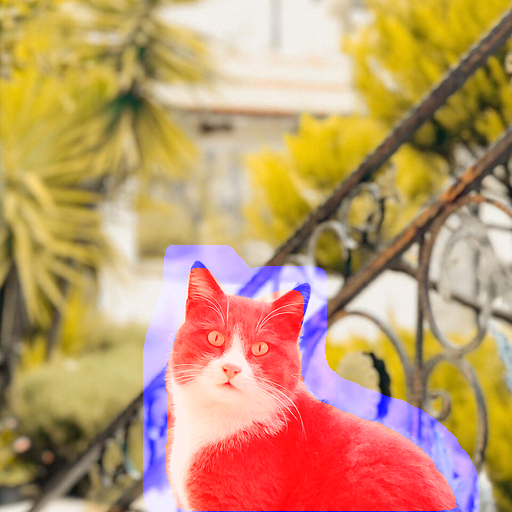
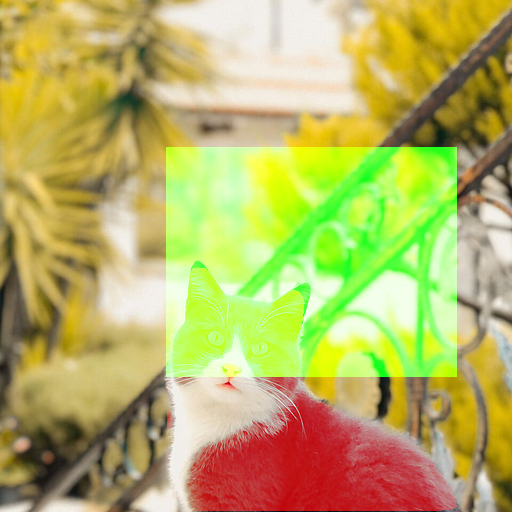
Switch the inpainting scenario to adding things to the subject
The subject-replacement group is gone: it forced the model to paint an
object from scratch, which is both hard and unlike the malicious edits this
defends against. What remains is one scenario -- a local box on the subject,
head or torso, and a prompt describing the subject with an accessory added.

People get torso rather than head. They fill much of these frames, so a face
box spans half the image, and a repaint region that large stops attributing
success to the defense.

auto_masks.py now derives head and torso boxes: COCO keypoints for people
(eyes/ears/nose for the head, shoulders to hips for the torso) and the upper
band of the instance box for animals. These are boxes, not silhouettes -- a
hat needs room above the head, so a mask hugging the outline leaves nowhere
for it to appear.

Region and prompt now live together in data/lo_inpaint_edits.yaml and are
read from that one place. Taking them from separate sources is exactly what
produced FND-038.

Claude-Session: https://claude.ai/code/session_01SwmAJq6ZFbhdYrZS3oU6RG

diff --git a/scripts/inpaint_edit.py b/scripts/inpaint_edit.py
@@ -1,16 +1,16 @@
-"""用既有的全圖防禦圖跑 inpainting 編輯。兩種場景，遮罩自動產生。
+"""用既有的全圖防禦圖跑 inpainting 編輯。遮罩自動產生，場景只有一種。
 
-修正 2026-08-14 第一版 inpainting 批次的協定錯誤（見 FND-038 的更正）：
-那一版把遮罩畫在**背景**、prompt 卻用**描述主體**的 `prompts[0]`，等於叫模型
-在背景畫一隻狗、而狗本人在遮罩外原封不動——攻擊本來就不可能成立。
+**在主體上加東西**：遮罩是主體的一個局部方框（頭部或軀幹），prompt 描述
+加上配件之後的整體（`a cat wearing a red party hat`）。使用者 2026-08-15
+裁定移除「換掉整個主體」那一組——它逼模型從零重畫一個物件，難度高且與實際
+的惡意編輯情境不符。
 
-文獻的兩種場景（AdvPaint ICLR 2025 同時測兩者）：
+人物用 `torso` 而非 `head`：這批的人物在畫面中佔比大，臉部方框會涵蓋畫面
+一半，重畫區太大則「攻擊有沒有成功」不再能歸因到防禦。
 
-    subject      遮罩＝主體，prompt＝`prompts[0]`（換掉主體：a dog → a cat）
-    background   遮罩＝主體以外，prompt＝`prompts[1]`（保住主體、重畫其餘：
-                 a dog in the park）
-
-`prompts.yaml` 的檔頭本來就是這樣分工的，第一版用錯了那一欄。
+逐影像的 region 與 prompt 由 `data/lo_inpaint_edits.yaml` 給定，**只有這一
+個地方決定它們**——2026-08-14 的協定錯誤（FND-038）正是遮罩與 prompt 各自
+從不同來源取值造成的。
 
 **防禦加在整張圖上，遮罩在編輯時才套用。** 故不需要為 inpainting 重跑攻擊，
 直接讀 img2img 批次（`runs/hb5`）存下的 `*__def.png`。
@@ -19,8 +19,7 @@
 差一個防禦擾動，整張圖算 LPIPS 會把失真算成效果。
 
 用法：
-    python scripts/inpaint_edit.py --out runs/ip2/background --scenario background \
-        --defended runs/hb5 runs/hb5_pgc --masks data/lo_masks_auto
+    python scripts/inpaint_edit.py --out runs/ip3 --defended runs/hb5 runs/hb5_pgc         --masks data/lo_masks_auto --seeds 3
 """
 
 from __future__ import annotations
@@ -53,24 +52,30 @@ INPAINT_SEED = 20260814
 TAG = {"phase": "phase__human", "add": "add__human",
        "phase_rand": "phase_rand__human", "apa_weak": "apa_weak",
        "mist": "mist", "dia_r": "dia_r", "photoguard_c": "photoguard_c"}
-# prompts.yaml 的哪一欄。0＝換掉主體，1＝保住主體改其餘。
-SCENARIO_PROMPT = {"subject": 0, "background": 1}
+EDITS = Path("data/lo_inpaint_edits.yaml")
 
 
-def load_items(data: Path, masks: Path, scenario: str, images=None) -> list:
-    spec = yaml.safe_load((data / "prompts.yaml").read_text(encoding="utf-8"))
-    idx = SCENARIO_PROMPT[scenario]
+def load_items(data: Path, masks: Path, edits: Path, images=None) -> list:
+    """逐影像的 region 與 prompt 由 `lo_inpaint_edits.yaml` 給定。
+
+    不再由 `prompts.yaml` 推 prompt——那份是 img2img 的規格，兩邊各自決定
+    prompt 正是 2026-08-14 那次協定錯誤的來源（FND-038）。
+    """
+    spec = yaml.safe_load(edits.read_text(encoding="utf-8"))
+    paths = {p.stem: p for c in data.iterdir() if c.is_dir()
+             for p in c.glob("*.png")}
     out = []
-    for c in sorted(spec):
-        for img in sorted((data / c).glob("*.png")):
-            if images and img.stem not in images:
-                continue
-            m = masks / f"{img.stem}__{scenario}.png"
-            if not m.exists():
-                raise FileNotFoundError(f"{img.stem} 缺 {scenario} 遮罩：{m}")
-            out.append({"name": img.stem, "content": spec[c]["content"],
-                        "path": img, "mask": m,
-                        "prompt": spec[c]["prompts"][idx]})
+    for name in sorted(spec):
+        if images and name not in images:
+            continue
+        if name not in paths:
+            raise FileNotFoundError(f"{name} 不在 {data}")
+        region = spec[name]["region"]
+        m = masks / f"{name}__{region}.png"
+        if not m.exists():
+            raise FileNotFoundError(f"{name} 缺 {region} 遮罩：{m}")
+        out.append({"name": name, "path": paths[name], "mask": m,
+                    "region": region, "prompt": spec[name]["prompt"]})
     return out
 
 
@@ -99,7 +104,9 @@ def main() -> None:
     ap = argparse.ArgumentParser(
         description=__doc__, formatter_class=argparse.RawDescriptionHelpFormatter)
     ap.add_argument("--out", type=Path, required=True)
-    ap.add_argument("--scenario", choices=list(SCENARIO_PROMPT), required=True)
+    ap.add_argument("--edits", type=Path, default=EDITS)
+    ap.add_argument("--orig-only", action="store_true",
+                    help="只跑未防禦的重畫，供開跑前以人眼複驗攻擊是否成功")
     ap.add_argument("--defended", nargs="+", required=True)
     ap.add_argument("--data", type=Path, default=Path("data/lo_aligned"))
     ap.add_argument("--masks", type=Path, default=Path("data/lo_masks_auto"))
@@ -112,7 +119,7 @@ def main() -> None:
     sd = SDInpaintWrapper(MODEL_NAME, dtype=torch.float32)
     suite = MetricSuite(device=sd.device)
     aes = AestheticSuite(device=sd.device)
-    items = load_items(args.data, args.masks, args.scenario, args.images)
+    items = load_items(args.data, args.masks, args.edits, args.images)
     seeds = [INPAINT_SEED + k for k in range(args.seeds)]
 
     def repaint(x01, item, mask, seed):
@@ -141,6 +148,8 @@ def main() -> None:
         atk = float(suite.pairwise(
             masked_compare(x01, x01, mask), base[seeds[0]])["lpips"])
 
+        if args.orig_only:
+            continue
         for cond in args.conditions:
             p = find_def(args.defended, item["name"], cond)
             if p is None:
@@ -158,7 +167,7 @@ def main() -> None:
             m = suite.pairwise(x01, x_def)
             a = aes.measure(x_def)
             row = {"image": item["name"], "condition": cond,
-                   "scenario": args.scenario, "prompt": item["prompt"],
+                   "region": item["region"], "prompt": item["prompt"],
                    "gen_lpips": round(sum(vals) / len(vals), 4),
                    "gen_lpips_sd": round(
                        (sum((v - sum(vals) / len(vals)) ** 2 for v in vals)
